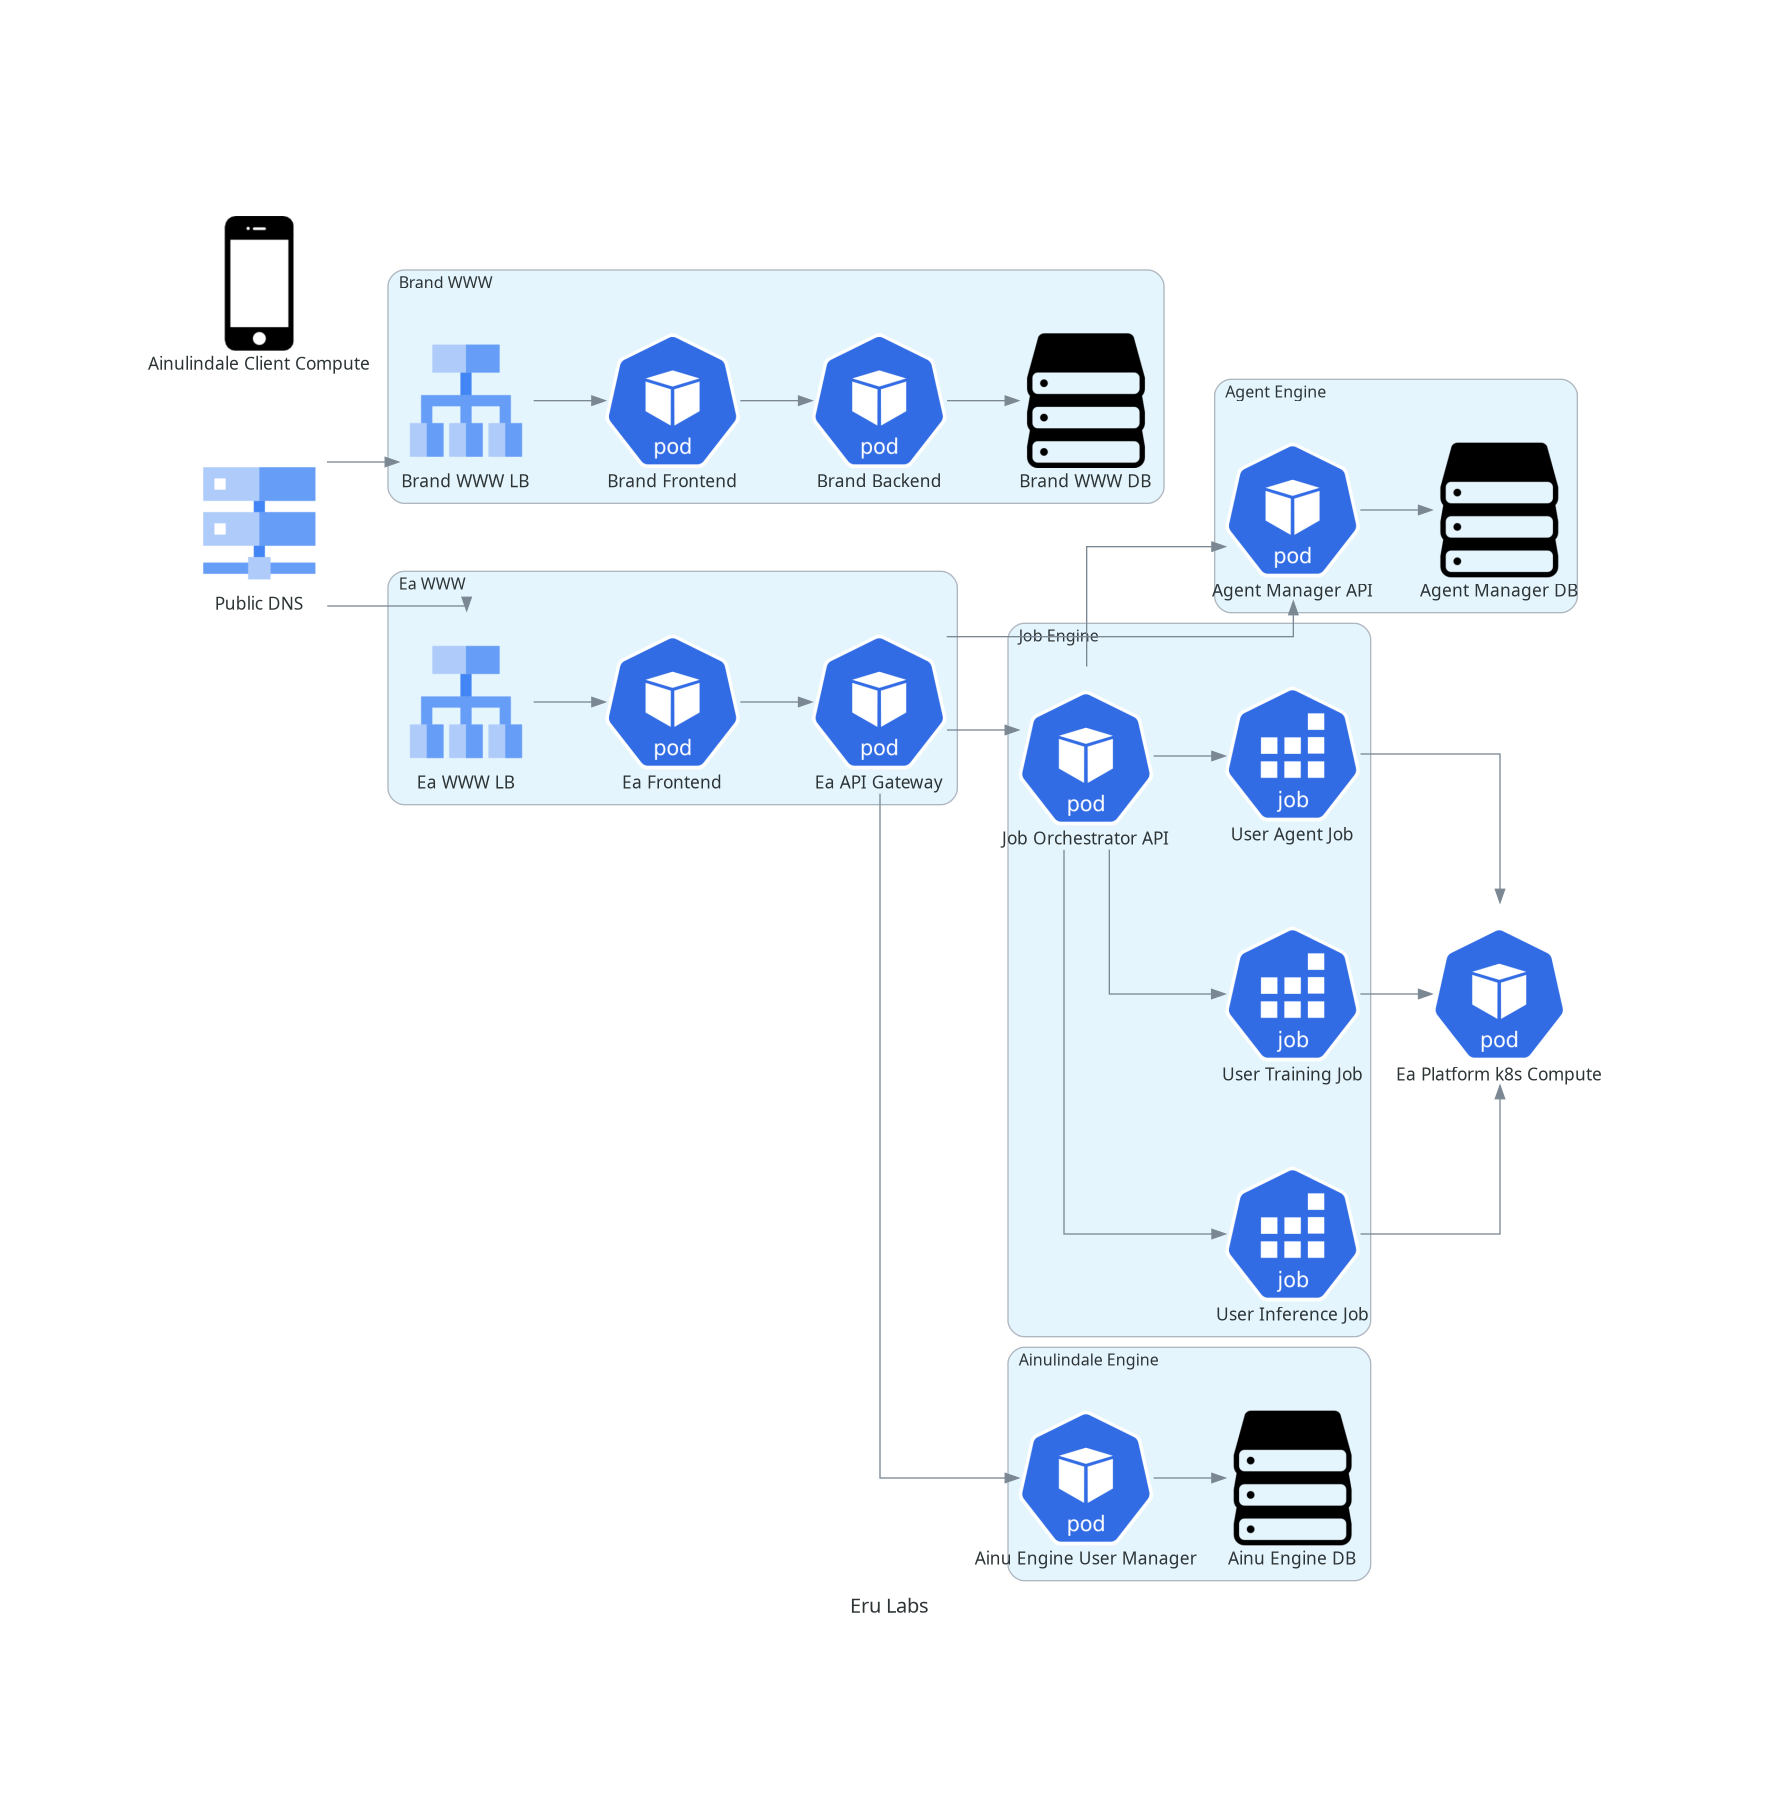
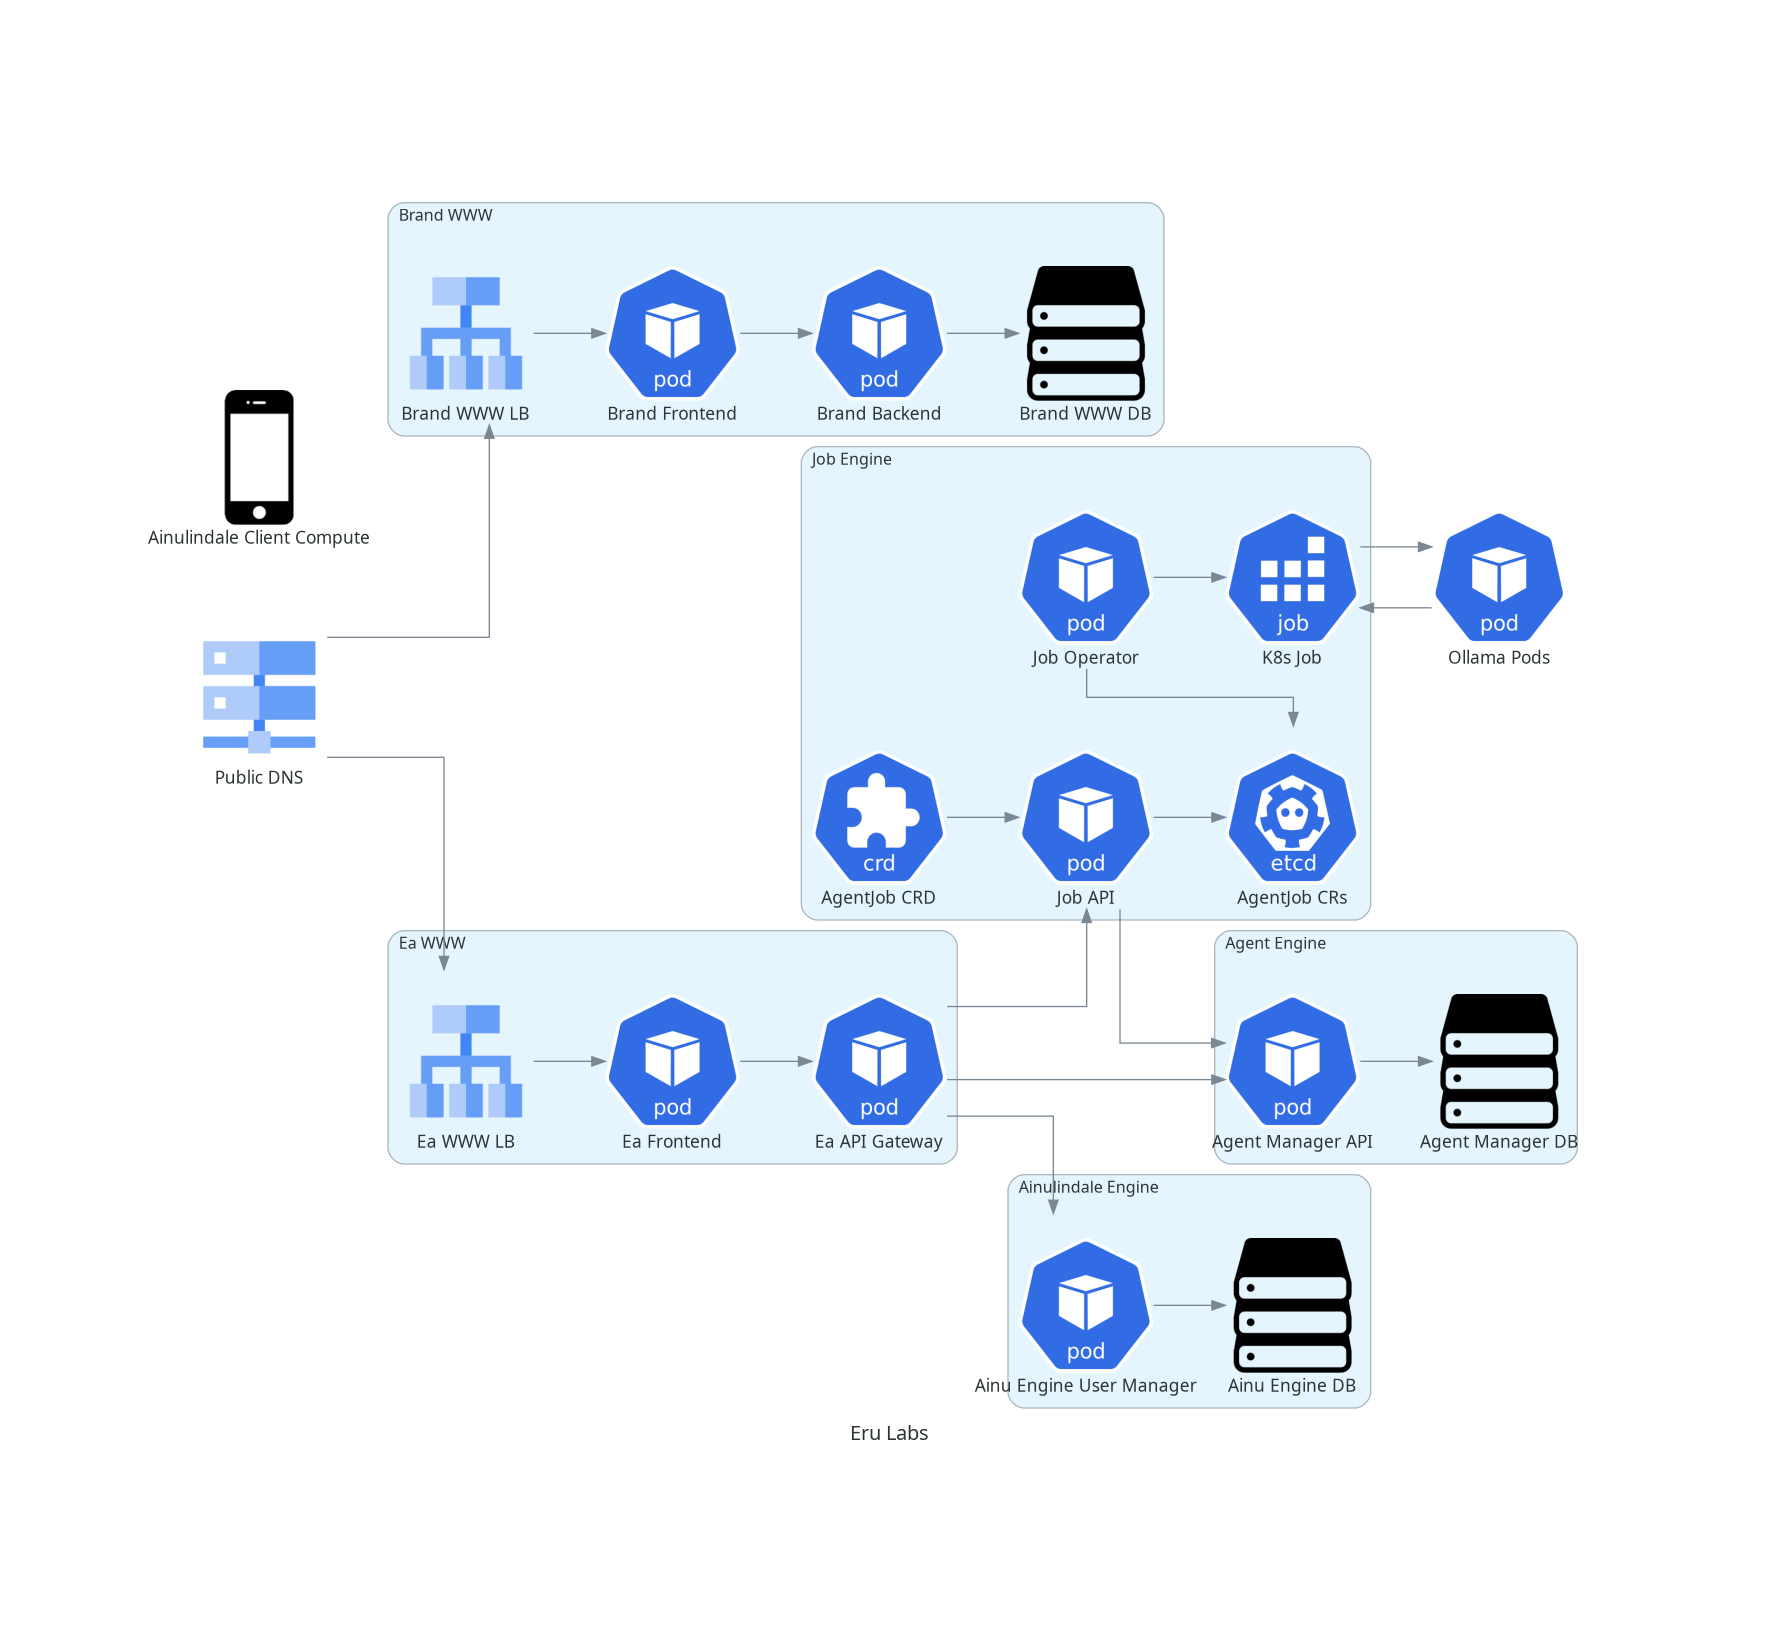
issue #12: update diagram

Changed region(s): [[0.0927, 0.0931, 0.8961, 0.8686], [0.0927, 0.3723, 0.1854, 0.4964], [0.4635, 0.8686, 0.5253, 0.8996]]

diff --git a/docs/diagrams/gen-arch.py b/docs/diagrams/gen-arch.py
@@ -1,5 +1,7 @@
 from diagrams import Diagram, Cluster
-from diagrams.k8s.compute import Pod, Job, Cronjob, CRD
+from diagrams.k8s.compute import Pod, Job, Cronjob
+from diagrams.k8s.infra import ETCD
+from diagrams.k8s.others import CRD
 from diagrams.generic.storage import Storage
 from diagrams.generic.device import Mobile
 from diagrams.gcp.network import LoadBalancing, DNS
@@ -11,7 +13,7 @@ with Diagram("Eru Labs", show=False):
     dns = DNS("Public DNS")
     
     ainuClients = Mobile("Ainulindale Client Compute")
-    k8sCompute = Pod("Ea Platform k8s Compute")
+    ollama = Pod("Ollama Pods")
 
     # Brand www
     with Cluster("Brand WWW"):
@@ -30,11 +32,17 @@ with Diagram("Eru Labs", show=False):
     
     # Ea Job Engine
     with Cluster("Job Engine"):
-        eaJobOrchestrator = Pod("Job API")
-        eaJobInf = Job("User Inference Job")
-        eaJobTrn = Job("User Training Job")
-        eaJobAgt = Job("User Agent Job")
-        eaAPIGateway >> eaJobOrchestrator >> [eaJobInf, eaJobTrn, eaJobAgt] >> k8sCompute
+        eaJobAPI = Pod("Job API")
+        eaJobOperator = Pod("Job Operator")
+        eaAgentJobCRD = CRD("AgentJob CRD")
+        eaAgentJobETCD = ETCD("AgentJob CRs")
+        eaK8sJob = Job("K8s Job")
+        eaAPIGateway >> eaJobAPI
+        eaAgentJobCRD >> eaJobAPI >> eaAgentJobETCD 
+        eaJobOperator >> eaAgentJobETCD
+        eaJobOperator >> eaK8sJob >> ollama
+        ollama >> eaK8sJob
+
         # Future state
         # eaFrontend >> eaJobOrchestrator >> [eaJobInf, eaJobTrn, eaJobAgt] >> ainuClients
 
@@ -43,7 +51,7 @@ with Diagram("Eru Labs", show=False):
         eaAgentManager = Pod("Agent Manager API")
         eaAgentDB = Storage("Agent Manager DB")
         eaAPIGateway >> eaAgentManager >> eaAgentDB
-        eaJobOrchestrator >> eaAgentManager
+        eaJobAPI >> eaAgentManager
 
     # Ea Ainu Engine
     with Cluster("Ainulindale Engine"):
